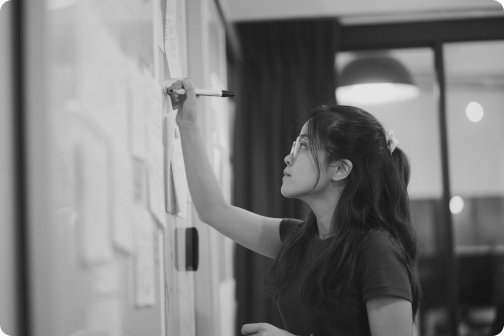
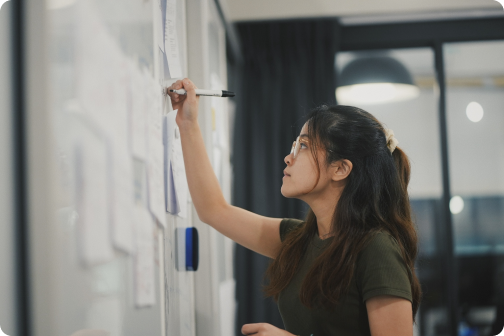
change copy and change image on sign up page

diff --git a/src/pages/About/About.js b/src/pages/About/About.js
@@ -13,7 +13,7 @@ function About() {
                     <div className="about-intro">
                         <img className="about-intro__logo" src={aboutLogo} alt="" />
                         <div className="about-intro__text">
-                            FairForward is a platform that aims to connect indigenous youth with experienced mentors who share their cultural background, in order to address the challenges they face in planning their future careers while staying connected to their roots.
+                        FairForward is a platform that aims to connect indigenous college students with experienced mentors who share their cultural background, in order to address the challenges they face in planning their future careers while staying connected to their roots.
                         </div>
 
                     </div>
@@ -37,10 +37,10 @@ function About() {
                             </div>
                         </div>
                         <h2 className="motivation__supporttitle">
-                            How might we support discouraged indigenous youths and practically help them find a job?
+                        How might we practical support to indigenous college students in order to overcome barriers to employment?
                         </h2>
                         <p className="motivation__supporttext">
-                            FairForward discovered that having empathetic mentors was highly beneficial in improving mentee outcomes. In order to address the educational and informational disparities faced by indigenous youth, FairForward has made the decision to connect these youth with mentors who share their cultural background as well as their professional experience.
+                        FairForward discovered that having empathetic mentors was highly beneficial in improving mentee outcomes. In order to address the educational and informational disparities faced by indigenous college students, FairForward has made the decision to connect these college students with mentors who share their cultural background as well as their professional experience.
                         </p>
 
                     </div>
@@ -55,7 +55,7 @@ function About() {
                         </h2>
                         <img src={missionCard} alt="" className="mission__card" />
                         <p className="mission__text">
-                        Our mission is to provide professional support to the next generation of indigenous youth, helping them navigate their career paths while maintaining their cultural heritage.
+                        Our mission is to provide professional support to the next generation of indigenous college students, helping them navigate their career paths while maintaining their cultural heritage.
                         </p>
                     </div>
                 </div>

diff --git a/src/pages/Homepage/HomePage.js b/src/pages/Homepage/HomePage.js
@@ -35,7 +35,7 @@ function HomePage({setIsLoggedIn}) {
                 <div className="body-wrap">
                     <section className="hero">
                         <div className="hero__left">
-                            <h1 className="hero__text">Connect the next generation of indigenous youth with experienced mentors.</h1>
+                            <h1 className="hero__text">Connect indigenous college students with experienced mentors</h1>
                             <div className="hero__botton-container">
                                 <Link to="/signup">
                                     <button onClick={handleClick} className="button button--hero">

diff --git a/src/pages/About/About.scss b/src/pages/About/About.scss
@@ -38,7 +38,7 @@
         margin: auto;
         margin-bottom: 5rem;
         text-align: center;
-        width: 70%;
+        width: 73%;
     }
 
     &__supporttext{
@@ -62,7 +62,7 @@
 
     &__text{
         text-align: center;
-        width: 74%;
+        width: 70%;
         margin: auto;
     }
 }
